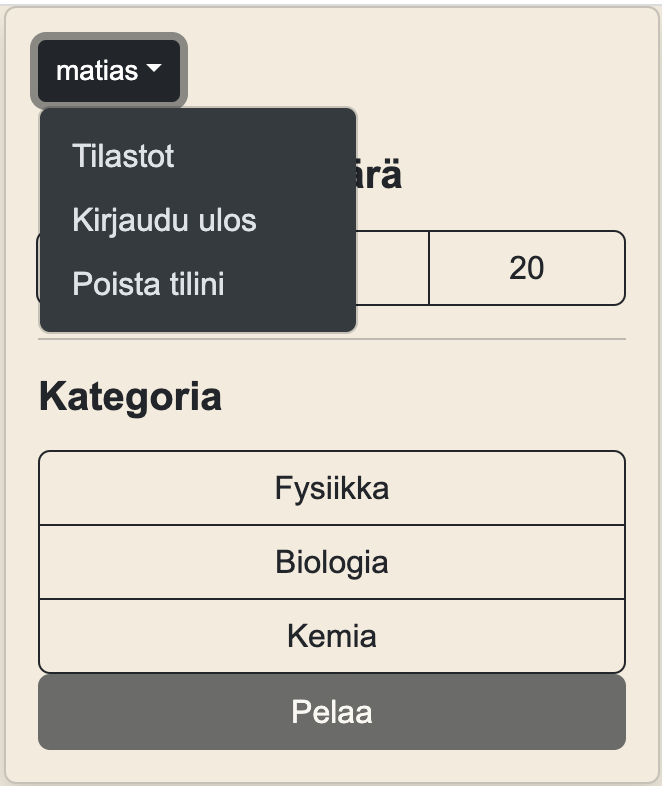
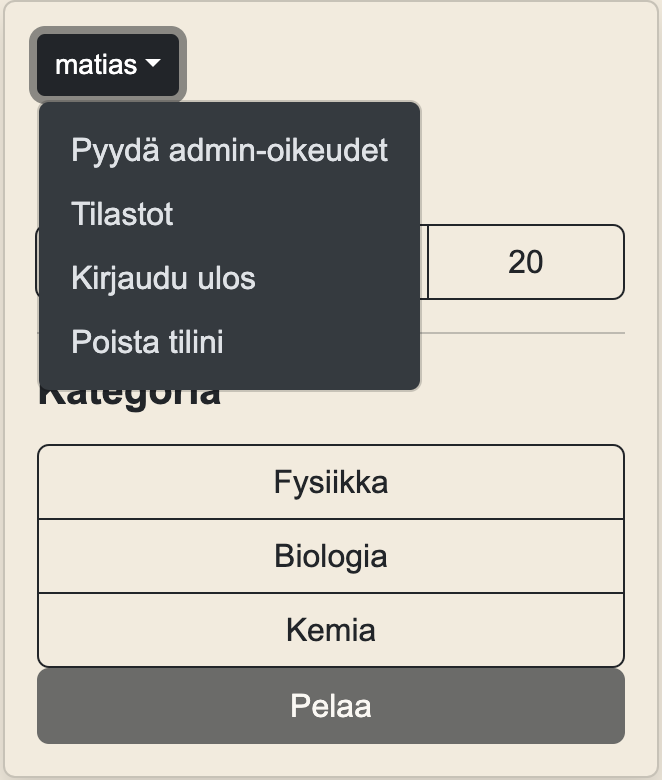
Testing markdown image downsizing

diff --git a/dokumentaatio/käyttöohjeet.md b/dokumentaatio/käyttöohjeet.md
@@ -18,8 +18,21 @@
 
 ![score](./pics/score.png)
 
-### 5. Klikkaamalla käyttäjänimeäsi etusivulla pääset tarkastelemaan tilastojasi. Voit myös kirjautua ulos tai poistaa käyttäjäsi
+### 5. Klikkaamalla käyttäjänimeäsi etusivulla sinulle aukeaa valikko
+
+Valikon sisältö riippuu siitä oletko admin vai et. Jos et ole, voit pyytää admin oikeuksia valikosta. Muussa tapauksessa valikossa on linkki sivulle, jossa voit lisätä kysymyksiä ja poistaa itse lisäämiäsi kysymyksiä. Kaikki käyttäjät näkevät tilastosivulle vievän linkin sekä mahdollisuuden kirjautua ulos tai poistaa käyttäjätilinsä.
 
 ![landing2](./pics/landing2.png)
+![landing3](./pics/landing3.png)
+
+### 6. Tilastosivulla näet yhteenvedon tilastoistasi kategorioittain sekä parhaan suorituksesi
 
 ![stats](./pics/stats.png)
+
+### 7. Kysymyssivulla näet itse lisäämäsi kysymykset ja voit lisätä uusia kysymyksiä. Oikeanpuoleinen nappi vaihtele näiden näkymien välillä.
+
+Kysymyslistasta kysymystä klikkaamalla aukeaa kysymyksen vastausvaihtoehdot sekä kategoria ja mahdollisuus poistaa kysymys. Oikea vastaus on korostettu vihreällä.
+
+![question_list](./pics/question_list.png)
+<img src="./pics/question_list.png" width="50%" height="50%">
+![question_form](./pics/question_form.png)
